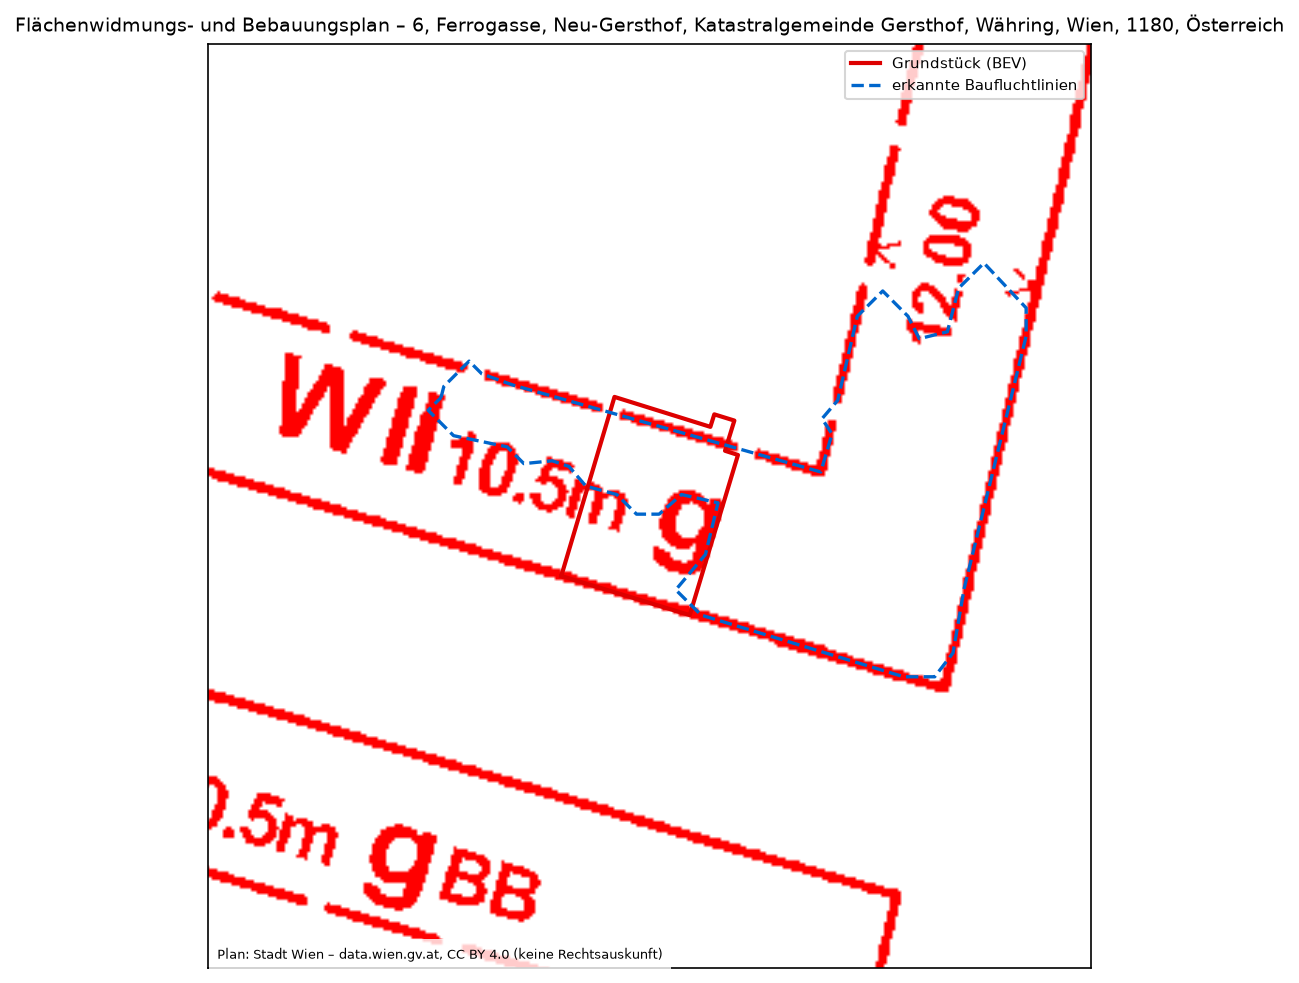
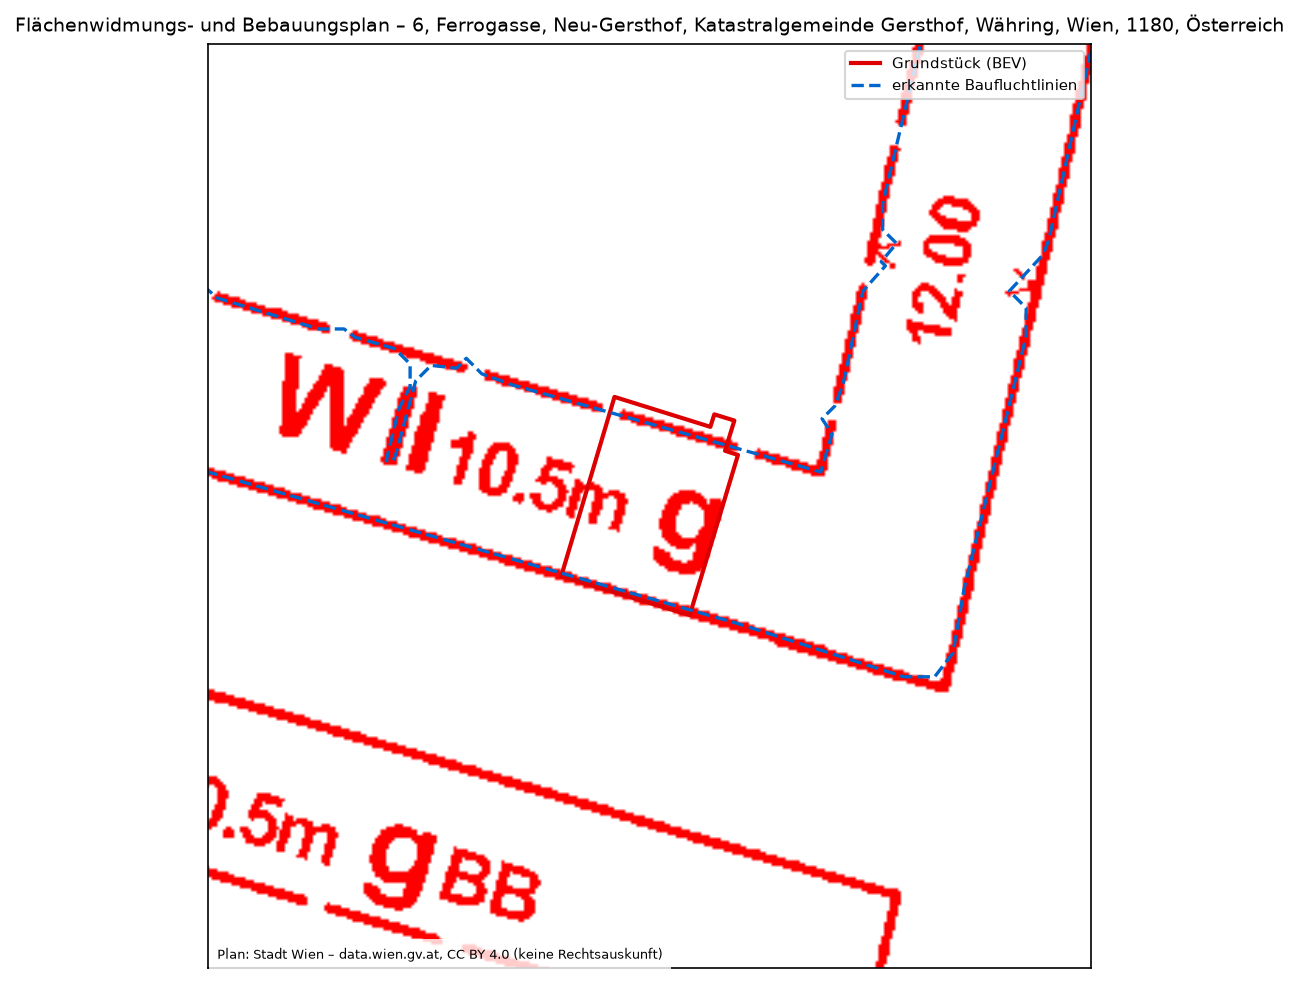
Studie Ferrogasse 6, 1180 Wien

diff --git a/Ferrogasse-6-1180-Wien/ergebnis.md b/Ferrogasse-6-1180-Wien/ergebnis.md
@@ -15,7 +15,8 @@ Vorabschätzung, keine Rechtsauskunft. Datenquellen: Stadt Wien – data.wien.gv
 ## Eingaben und Annahmen (im Plandokument nur als Bild, bitte prüfen)
 
 - Grundstück: KG 01501, Grundstück 479/2: 126 m² laut BEV-Katastralmappe (Stichtag 01.10.2026), Straßenkanten [0]
-- Bauweise: o (Annahme, im Plandokument prüfen)
+- Bauweise: o (aus der Planbeschriftung gelesen, bitte prüfen)
+- Festgesetzte Gebäudehöhe: keine erkannt (Höhe nach Bauklasse)
 - Abstand der Fluchtlinien (Straßenbreite): 15.0 m (aus dem Planbild gemessen, schmalste angrenzende Straße)
 - Bebaubare Fläche: innerhalb der aus dem Planbild erkannten Baufluchtlinien (bitte prüfen)
 - Besondere Bestimmungen des Plandokuments: nicht berücksichtigt
@@ -33,10 +34,11 @@ Vorabschätzung, keine Rechtsauskunft. Datenquellen: Stadt Wien – data.wien.gv
 - Kataster: Nutzung Gebäude 122 m², Gebäudenebenfläche 4 m²; Straßenkanten [0]; Nachbargrundstücke 481/2 (115 m²), 479/1 (92 m²), 476 (391 m²)
 - Kataster: Das Grundstück am Adresspunkt ist fast ganz überbaut. Der Bauplatz umfasst vermutlich weitere Grundstücke derselben Einlagezahl; bitte prüfen.
 - Fluchtlinien-Bild: 768×512 px, 0.20 m/px, rote Pixel 7.0%
-- Baufluchtlinien: geschlossene Fläche 497 m² erkannt, davon 53 m² im Grundstück
+- Linien 4.7%, Schrift 2.3% der Bildfläche
+- Baufluchtlinien: geschlossene Fläche 1781 m² erkannt, davon 113 m² im Grundstück
 - Straßenkante 0: Abstand der Baulinien ca. 15.0 m (Messungen 15.0, 15.0, 15.0, 15.0, 15.0)
-- Planbeschriftung: %, %.., 002,, 007", 02,, 0p, 10, 10,5, 10.5, 12.00, 15.17, 2, 2,, 4, 405, 42.00, 42.08, 7, 70, 9, ;, <, >, >,, A0, CO, D, M4, My, Nb, Of, Oo, Op, Ot, SZ, \, a, a>, at, eee
-- keine Bauweisen-Beschriftung im Umkreis erkannt
+- Planbeschriftung: %, &, 0, 00, 0p, 10, 105m, 12, 1200, 15, 17, 2, 4, 42,00, 42.00, 45, 5m, 6, 7, 8, 9, =, =,, >, AT, Ay, BR, CZ, G, Ly, M4, My, OG, ON, SZ, So, Sp, St, Ve, W
+- Bauweise „o“ aus der Planbeschriftung gelesen (14 m vom Grundstück, innerhalb derselben Baufluchtlinien)
 - Bebauungsplan: Ausschnitt als Bild beigelegt
 
 ## Ergebnis
